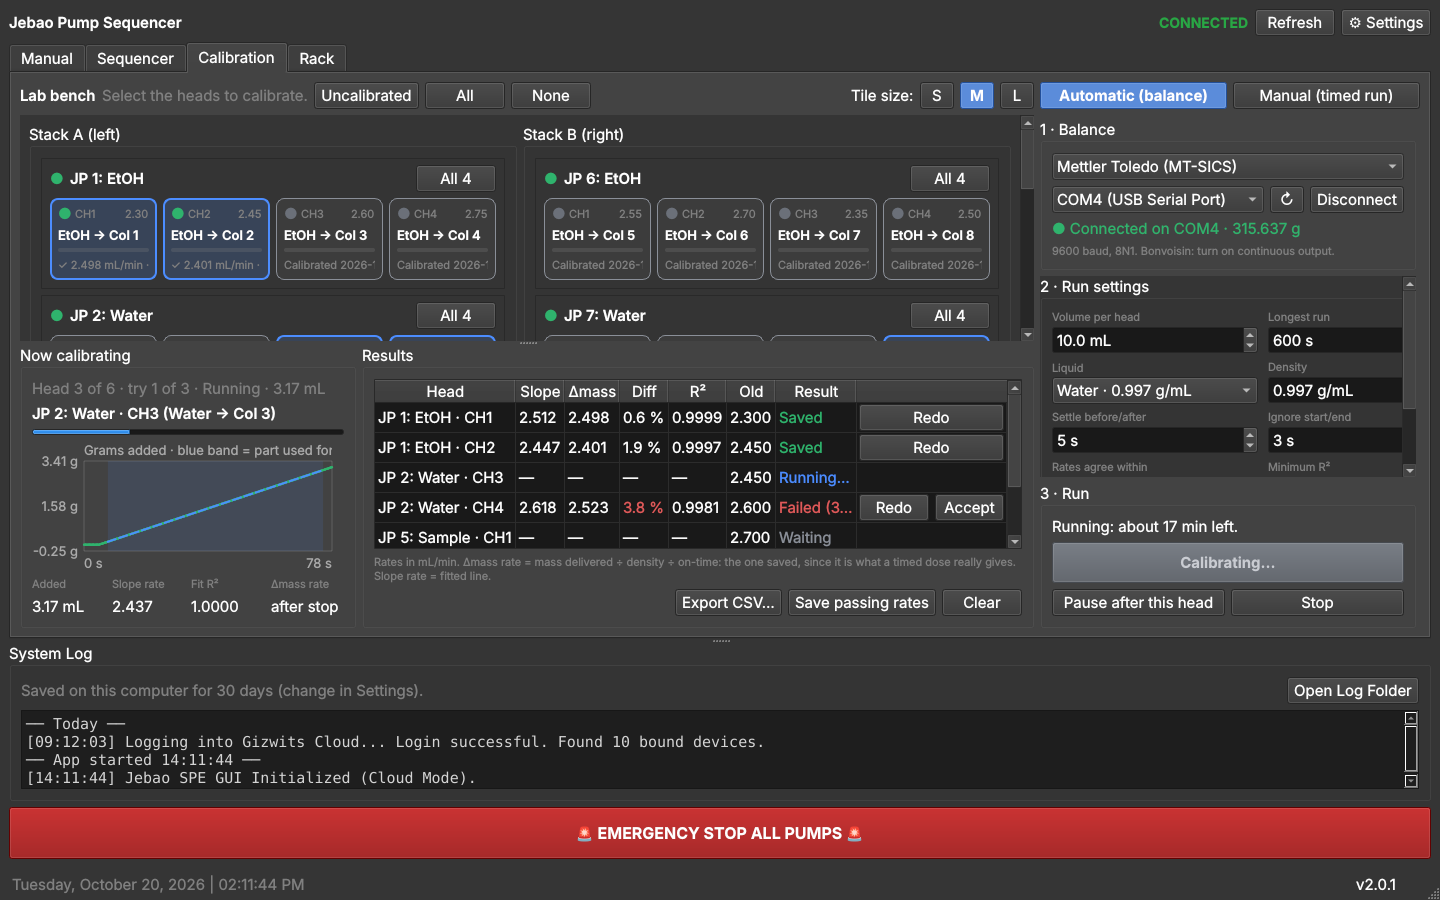
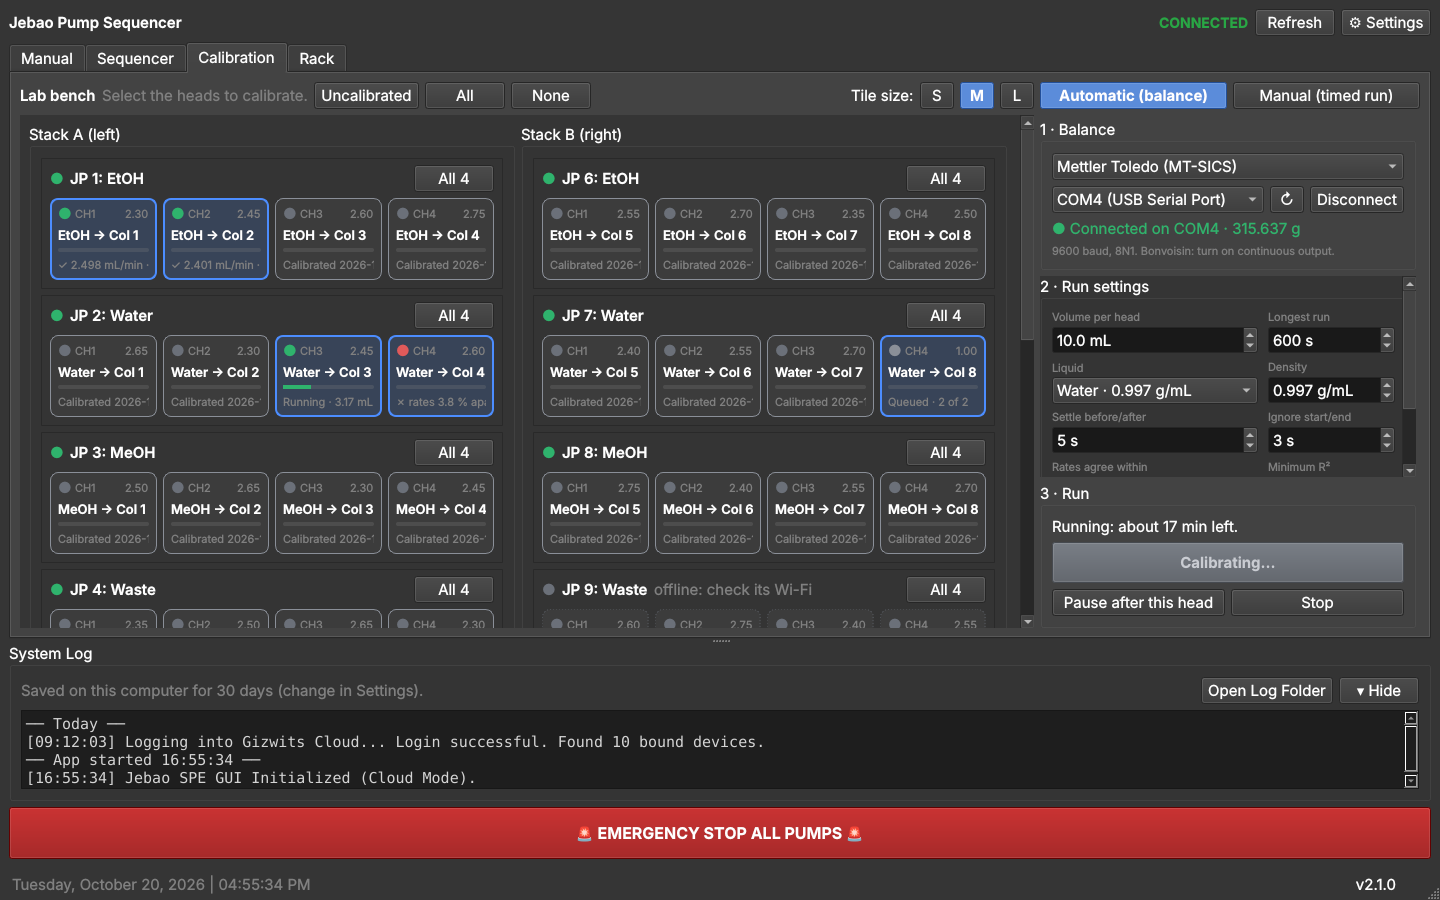
Document the log Hide button and the scrolling Calibration tab
Claude-Session: https://claude.ai/code/session_01Q45g1uXJXLbyeLygNHJ6jd

diff --git a/CLAUDE.md b/CLAUDE.md
@@ -17,7 +17,8 @@ PyQt6 app that drives Jebao MD-4.4 / Doser 2.4 4-channel dosing pumps (5 pumps, 
 - Main classes in `jebao_gui.py` (~2,500 lines): `GUILogHandler`/`_LogBridge` (thread-safe log box), `HeadRun`, `CheckableComboBox`, `AppBox` (Settings → updates + desktop shortcut), `SettingsDialog`, `JebaoPumpGUI`.
 - **2.0 layout:** top bar (status, Refresh, Settings) → approval banner → tabs **Manual | Sequencer | Calibration | Rack** in a vertical splitter with the System Log → Emergency Stop → status bar (clock, version). `rack_widgets.py` holds `ManualTab` (PumpCard + `HeadTile`, selection, Dispense panel, S/M/L sizes in `config['ui']`) and `RackTab` (TrayList + `SlotWidget` drag-and-drop with MIME `application/x-jebao-pump`, click-to-place fallback, pump/head names). Both use the main window as `host` (see the module docstring for the methods). `HeadGrid` (the rack of selectable tiles, optional `status_for(did, ch)` hook for the status line) is shared by the Manual and Calibration tabs; tile size is shared via `host.tile_size_changed`. `refresh_pumps()` re-sorts `cloud_devices` in rack order and rebuilds the tabs; `ui_timer` (300 ms) refreshes only the tab in view (plus `calibration_tab._watch_cancel()`).
 - `rack.py`: layout data in `config['rack']` (`name`, `slots_per_stack`, `stacks[{name, slots[did|None]}]`), pure functions (place = swap, remove, resize, auto_arrange, natural_key). First 2.0 run: `rack_layout()` builds one stack from the old `pump_order`. Names: `config['pumps'][did]['display_name']`, `['head_names']` (4), `['calibrated_at']` (4 ISO dates; 1.0 mL/min with no date = "not calibrated").
-- **Calibration (2.1):** `calibration_tab.py` = `CalibrationTab` (HeadGrid + Automatic/Manual pages + live `MassChart` + results table). `autocal.py` (no Qt) = `Settings`, `fit_line`, `evaluate`, `AutoCalibrator` (async; one head at a time: settle → ON until ~volume by balance or `max_run_s` → OFF → settle; saves the Δmass rate; retries only tolerance/R² misses; no-flow fails that head; a pump or balance failure stops the run; injectable `clock`/`sleep`), `write_csv`. `balance.py` (no Qt) = MT-SICS `SI` polling and streamed-line parsers (grams), `SerialBalance` reader thread with a sample deque, `SimulatedBalance` for tests. Host hooks: `set_head`, `save_head_rate` (sets rate + `calibrated_at`), `data_dir` (CSV in `<data>/calibrations/`), `calibration_running()` (queued sequences wait). Settings in `config['autocal']`. Tubing ID/OD are no longer edited (old values kept).
+- **Calibration (2.1):** `calibration_tab.py` = `CalibrationTab` (HeadGrid with `scroll=False` and its `toolbar` pinned above one scroll area holding the grid, the live `MassChart` and the results table; Automatic/Manual pages on the right). `autocal.py` (no Qt) = `Settings`, `fit_line`, `evaluate`, `AutoCalibrator` (async; one head at a time: settle → ON until ~volume by balance or `max_run_s` → OFF → settle; saves the Δmass rate; retries only tolerance/R² misses; no-flow fails that head; a pump or balance failure stops the run; injectable `clock`/`sleep`), `write_csv`. `balance.py` (no Qt) = MT-SICS `SI` polling and streamed-line parsers (grams), `SerialBalance` reader thread with a sample deque, `SimulatedBalance` for tests. Host hooks: `set_head`, `save_head_rate` (sets rate + `calibrated_at`), `data_dir` (CSV in `<data>/calibrations/`), `calibration_running()` (queued sequences wait). Settings in `config['autocal']`. Tubing ID/OD are no longer edited (old values kept).
+- System log: **Hide/Show** (`set_log_collapsed`, saved as `config['ui']['log_collapsed']`) hides the text box, caps the group's height and shows the latest line in `lbl_log_info`.
 - `closeEvent` asks before quitting while `busy_reason()` is set, then sends Emergency Stop and closes.
 - **Head runs:** `head_runs[(did, ch)] = HeadRun` while a motor is on. `_interruptible_motor_run(ch, did, s, source)` registers one for sequences (channel-level `_ch_paused/_ch_cancelled` still apply) and manual doses; automatic calibration registers its head (`source="calibration"`; cancelling it stops the calibration). `dispense(heads, value, unit)` groups heads per pump (one ON per pump), skips offline/running/zero-rate heads; `pause_heads/resume_heads/cancel_heads` act per head; Emergency Stop cancels all. Cancelling a head inside a running sequence stops that sequence.
 - `updater.py`: checks GitHub's latest release, fast-forwards a git clone to the tag, reinstalls (`pip install -e .`) only if `pyproject.toml` changed, rolls back on failure. Same design as Balance-Streamer-GUI and Masterflex. `JebaoPumpGUI.busy_reason()` blocks updating while a sequence/queue, manual dose or calibration is running (`_motor_jobs` counter).

diff --git a/README.md b/README.md
@@ -20,7 +20,7 @@ Jebao dosing pumps are cheap and reliable, but their phone app is built for aqua
 - **Queue**: line up several saved sequences and they run one after another.
 - **Review steps you can't miss**: when a sequence waits for your review, an orange bar appears across the top with an Approve button for each waiting channel.
 - **Emergency stop**: one button cancels the running sequence and any manual doses, clears the queue and turns off all four channels on every pump.
-- **System log under every tab**: everything the app does is logged and saved on each computer for 30 days (adjustable in Settings). When you open the app, recent history is shown again above the new session.
+- **System log under every tab**: everything the app does is logged and saved on each computer for 30 days (adjustable in Settings). When you open the app, recent history is shown again above the new session. **Hide** shrinks it to one line showing the latest message.
 - **Shared settings**: keep your login, calibrations, layout, names and sequences in a synced folder so every computer uses the same ones.
 - **Version and updates**: the version is shown in the bottom-right corner. When a newer release is out it turns orange ("Update available"); click it to see what changed and update. It won't update while a sequence, dose or calibration is running.
 - **Desktop shortcut**: the app puts an icon on your desktop the first time it starts and refreshes it after each update. On Windows it opens without a console window; on a Mac it's a small app you can drag to the Dock. You can turn this off in Settings.
